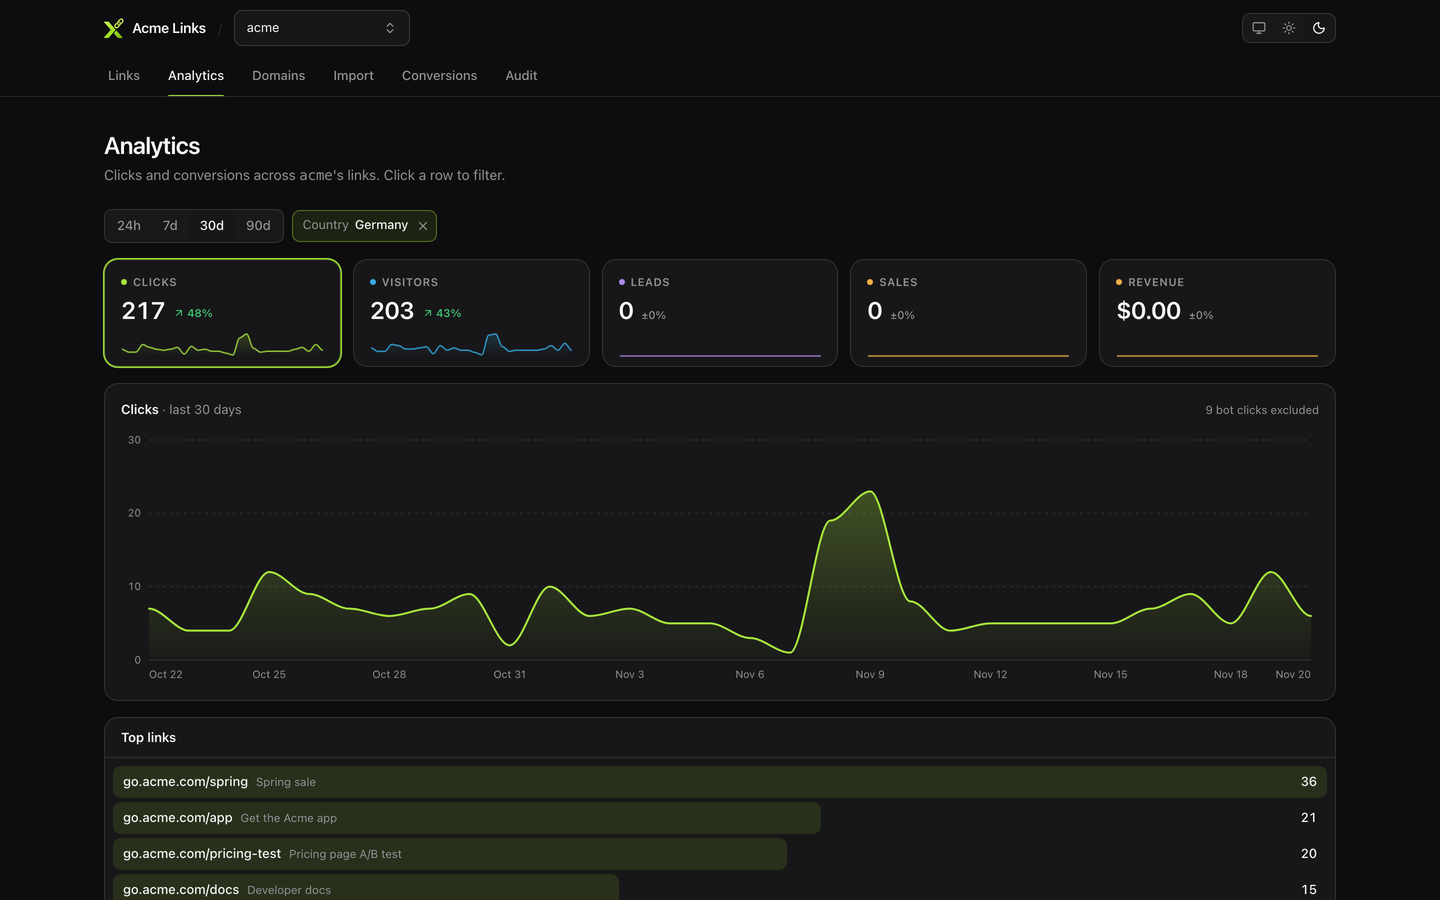
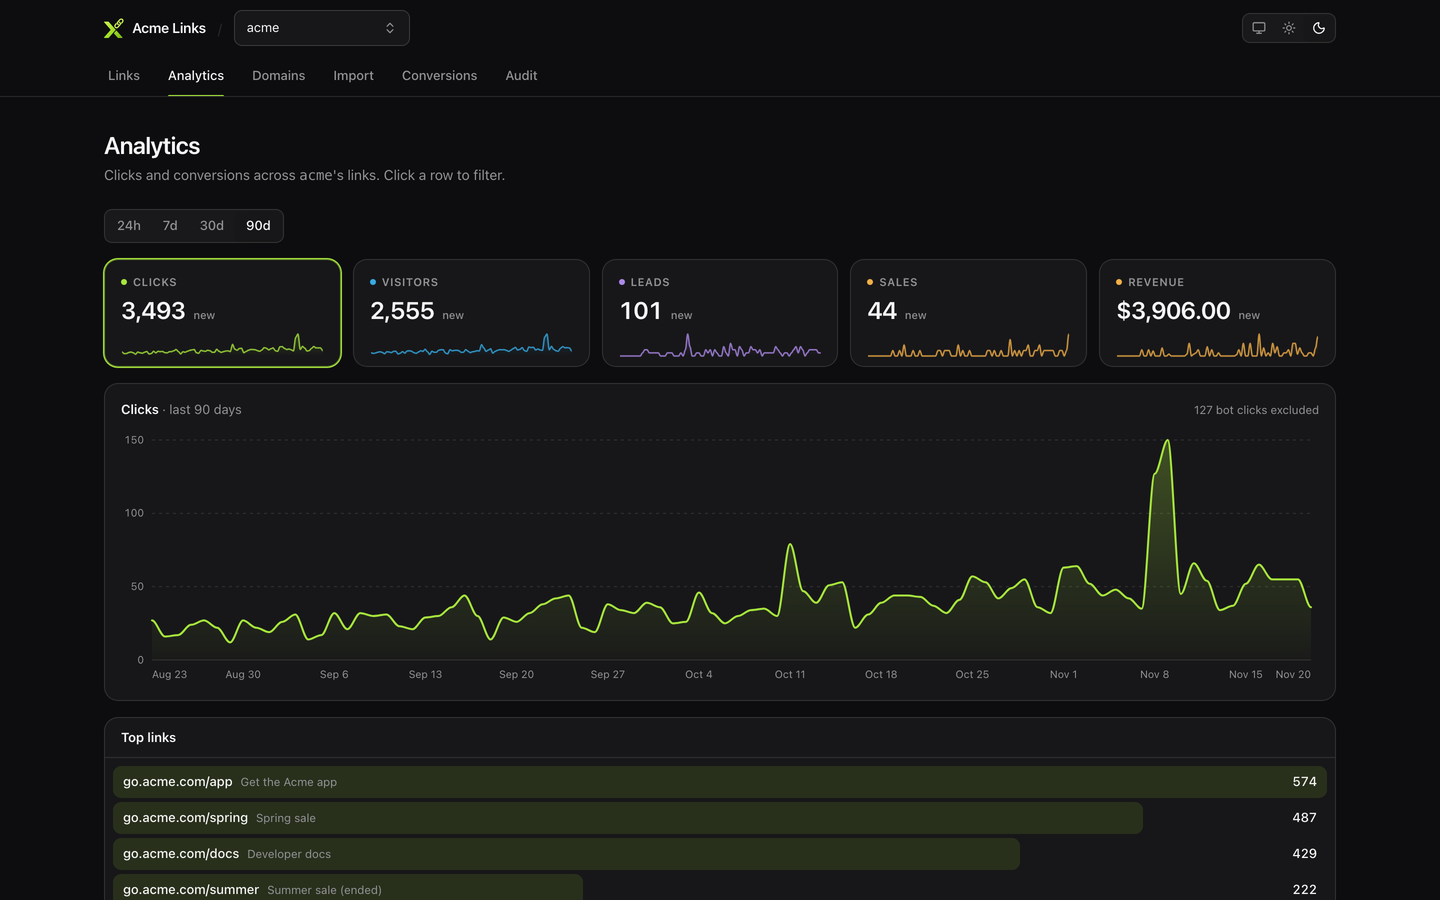
feat(ui): admin SPA, analytics widget chrome, React embeds, demo seed, e2e and screenshots
- src/ui: Links (filters, QR, archive), link detail (analytics, QR SVG/PNG,
  recent clicks), tenant Analytics (KPI tiles, hand-rolled SVG timeseries,
  breakdowns, click-to-filter honouring capabilities.crossFilter), Domains
  (app association), Import (dry-run preview), Conversions, Audit; link editor
  drawer with UTM builder, rules editor (geo/device/lang/referrer/QR/query/time,
  weighted A/B), mobile/deep links, OG preview, expiry/password/redirect settings
- viewer-token widget chrome; lime accent tokens (AA on light)
- src/react.tsx: LinksDashboard + LinkAnalytics (scoped CSS, theme modes, routing)
- scripts/seed-demo.ts (seedDemo), scripts/demo-app.ts, demo.ts, screenshots.ts
- tests: ui-lib, react-embed, embed-css; e2e ui + embed specs
- docs/assets/ui-*.png

diff --git a/e2e/ui.spec.ts b/e2e/ui.spec.ts
@@ -51,7 +51,7 @@ test("creates a link with a geo rule and the redirect honours it", async ({ page
   await page
     .getByLabel("Destination URL")
     .fill("https://acme.com/launch?utm_source=e2e&utm_medium=test");
-  await page.getByLabel("Slug").fill(SLUG);
+  await page.getByLabel("Slug", { exact: true }).fill(SLUG);
   // Pasted utm_ params move into the UTM builder.
   await page.getByLabel("Title").click();
   await expect(page.getByLabel("Destination URL")).toHaveValue("https://acme.com/launch");
@@ -103,12 +103,16 @@ test("rule validation blocks saving an incomplete rule", async ({ page }) => {
 test("link detail shows analytics, QR and rules", async ({ page }) => {
   await page.goto(panel("/?tenant=acme"));
   await page.getByLabel("Search links").fill("spring");
+  await expect(page.getByTestId("link-row")).toHaveCount(1);
   await page.getByTestId("link-row").first().click();
   await expect(page.getByRole("heading", { name: "go.acme.com/spring" })).toBeVisible();
   await expect(page.getByTestId("qr-image")).toBeVisible();
   await expect(page.getByText("Country is Germany or Austria")).toBeVisible();
-  const clicks = await page.getByTestId("kpi-clicks").textContent();
-  expect(Number(clicks?.replace(/\D/g, ""))).toBeGreaterThan(0);
+  await expect
+    .poll(async () =>
+      Number((await page.getByTestId("kpi-clicks").textContent())?.replace(/\D/g, "") || 0),
+    )
+    .toBeGreaterThan(0);
   await expect(page.getByText("Recent activity")).toBeVisible();
   await expect(page.getByRole("img", { name: /Clicks over time/ })).toBeVisible();
 });
@@ -116,16 +120,15 @@ test("link detail shows analytics, QR and rules", async ({ page }) => {
 test("tenant analytics: ranges, metrics and click-to-filter", async ({ page }) => {
   await page.goto(panel("/analytics?tenant=acme"));
   await expect(page.getByRole("heading", { name: "Analytics" })).toBeVisible();
-  const total30 = Number((await page.getByTestId("kpi-clicks").textContent())?.replace(/\D/g, ""));
-  expect(total30).toBeGreaterThan(100);
+  const kpi = async () =>
+    Number((await page.getByTestId("kpi-clicks").textContent())?.replace(/\D/g, "") || 0);
+  await expect.poll(kpi).toBeGreaterThan(100);
+  const total30 = await kpi();
 
   await page.getByRole("button", { name: "Last 90 days" }).click();
   await expect(page).toHaveURL(/range=90d/);
-  await expect
-    .poll(async () =>
-      Number((await page.getByTestId("kpi-clicks").textContent())?.replace(/\D/g, "")),
-    )
-    .toBeGreaterThan(total30);
+  await expect.poll(kpi).toBeGreaterThan(total30);
+  const total90 = await kpi();
 
   // Uniques come from the memory sink's capabilities.
   await expect(page.getByTestId("kpi-uniques")).toBeVisible();
@@ -137,13 +140,10 @@ test("tenant analytics: ranges, metrics and click-to-filter", async ({ page }) =
   await page.getByRole("button", { name: /^Filter by Germany/ }).click();
   await expect(page).toHaveURL(/filters=country%3ADE|filters=country:DE/);
   await expect(page.getByRole("button", { name: "Clear Country filter" })).toBeVisible();
-  const de = Number((await page.getByTestId("kpi-clicks").textContent())?.replace(/\D/g, ""));
-  await expect
-    .poll(async () =>
-      Number((await page.getByTestId("kpi-clicks").textContent())?.replace(/\D/g, "")),
-    )
-    .toBeLessThan(total30 * 3);
-  expect(de).toBeGreaterThan(0);
+  // Germany is a slice of the total; conversions are not split by visitor filters.
+  await expect.poll(kpi).toBeLessThan(total90);
+  expect(await kpi()).toBeGreaterThan(0);
+  await expect(page.getByTestId("kpi-leads")).toHaveText("—");
   await page.getByRole("button", { name: "Clear Country filter" }).click();
   await expect(page).not.toHaveURL(/filters=/);
 });
@@ -230,7 +230,7 @@ test("a viewer token renders the reduced widget chrome", async ({ page }) => {
   await expect(page.getByLabel("Tenant")).toHaveCount(0);
   const nav = page.getByRole("navigation", { name: "Main navigation" });
   await expect(nav.getByRole("button")).toHaveText(["Analytics", "Links"]);
-  await expect(page.getByTestId("kpi-clicks")).not.toHaveText("0");
+  await expect(page.getByTestId("kpi-clicks")).toHaveText(/[1-9]/);
 
   // Read-only links: no create/edit/delete affordances.
   await nav.getByRole("button", { name: "Links" }).click();

diff --git a/src/ui/components/AnalyticsPanel.tsx b/src/ui/components/AnalyticsPanel.tsx
@@ -167,7 +167,8 @@ function KpiTile({
   unavailable,
 }: {
   metric: MetricKey;
-  value: number;
+  /** `undefined` while loading. */
+  value: number | undefined;
   previous: number | undefined;
   series: number[];
   selected: boolean;
@@ -218,9 +219,13 @@ function KpiTile({
           className="text-2xl font-semibold tabular-nums tracking-tight"
           data-testid={`kpi-${metric}`}
         >
-          {formatMetric(metric, value)}
+          {value === undefined ? (
+            <span className="inline-block h-7 w-20 animate-pulse rounded-md bg-secondary align-middle" />
+          ) : (
+            formatMetric(metric, value)
+          )}
         </span>
-        <Delta current={value} previous={previous} />
+        {value !== undefined && <Delta current={value} previous={previous} />}
       </span>
       <Sparkline values={series} color={meta.color} height={26} className="mt-0.5 opacity-80" />
     </button>
@@ -576,7 +581,7 @@ export function AnalyticsPanel({
           <KpiTile
             key={key}
             metric={key}
-            value={main.data ? metricValue(main.data.totals, key) : 0}
+            value={main.data ? metricValue(main.data.totals, key) : undefined}
             previous={previous.data ? metricValue(previous.data.totals, key) : undefined}
             series={series(key)}
             selected={metric === key}

diff --git a/e2e/embed.spec.ts b/e2e/embed.spec.ts
@@ -131,7 +131,7 @@ test.describe("widget scope", () => {
     await expect(page.getByRole("heading", { name: "Analytics" })).toBeVisible();
     await expect(page.getByText("Viewer", { exact: true })).toBeVisible();
     await expect(page.getByLabel("Tenant")).toHaveCount(0);
-    await expect(page.getByTestId("kpi-clicks")).not.toHaveText("0");
+    await expect(page.getByTestId("kpi-clicks")).toHaveText(/[1-9]/);
     // The host's own heading keeps the host font (preflight is scoped to the embed).
     const hostFont = await page
       .locator(".host-heading")
@@ -147,9 +147,9 @@ test.describe("widget scope", () => {
 
   test("the dashboard embed routes in memory without touching the host URL", async ({ page }) => {
     await page.goto("/e2e/embed?mode=dashboard&theme=light");
-    await expect(page.getByRole("heading", { name: "Links" })).toBeVisible();
+    await expect(page.getByRole("heading", { name: "Links", exact: true })).toBeVisible();
     await page.getByRole("button", { name: "Analytics", exact: true }).click();
-    await expect(page.getByRole("heading", { name: "Analytics" })).toBeVisible();
+    await expect(page.getByRole("heading", { name: "Analytics", exact: true })).toBeVisible();
     expect(new URL(page.url()).pathname).toBe("/e2e/embed");
     expect(new URL(page.url()).hash).toBe("");
   });

diff --git a/scripts/screenshots.ts b/scripts/screenshots.ts
@@ -70,7 +70,7 @@ const shots: Shot[] = [
     name: "ui-analytics-dark",
     theme: "dark",
     async run(page) {
-      await page.goto(panel("/analytics?tenant=acme&filters=country:DE"));
+      await page.goto(panel("/analytics?tenant=acme&range=90d"));
       await page.getByTestId("kpi-clicks").waitFor();
       await settle(page);
     },
